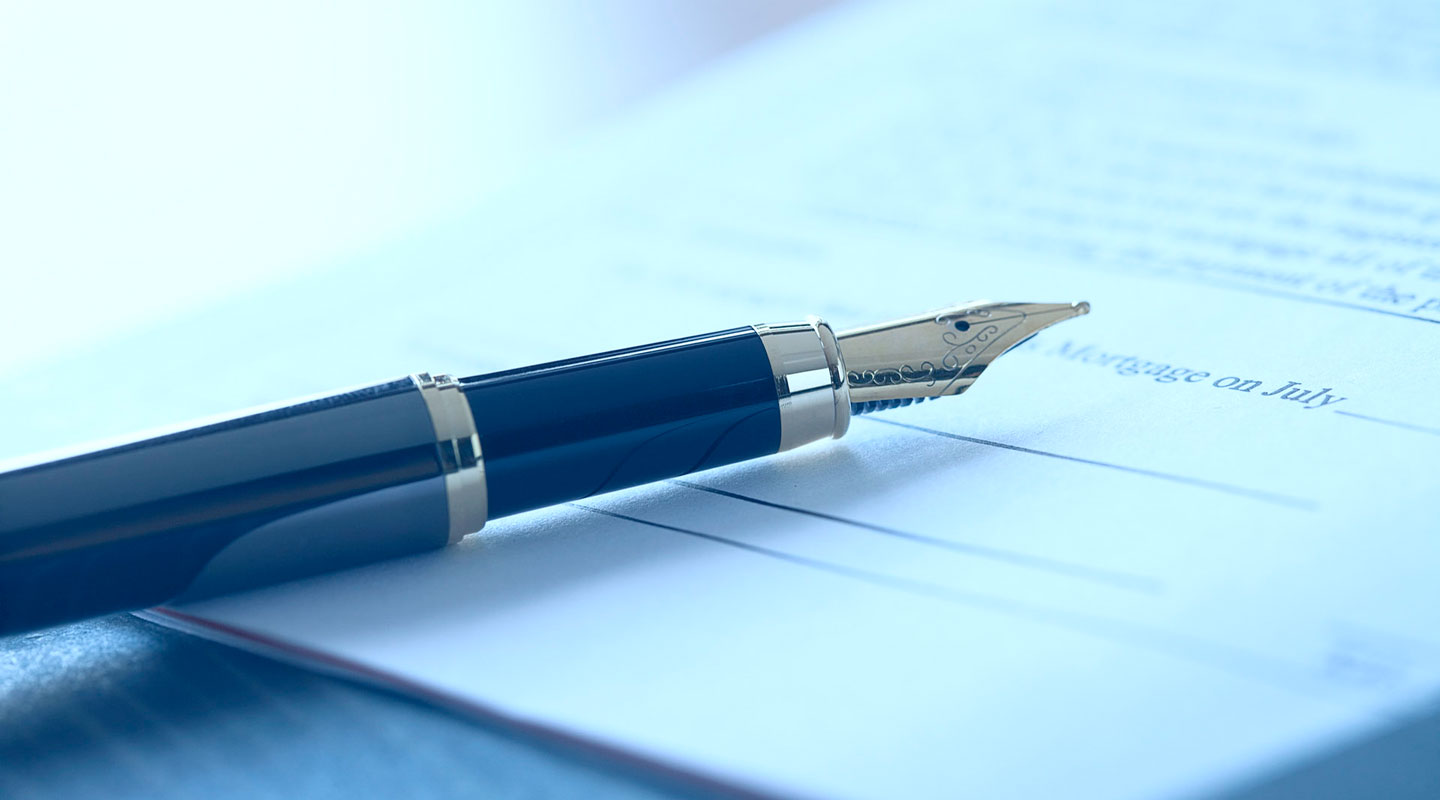
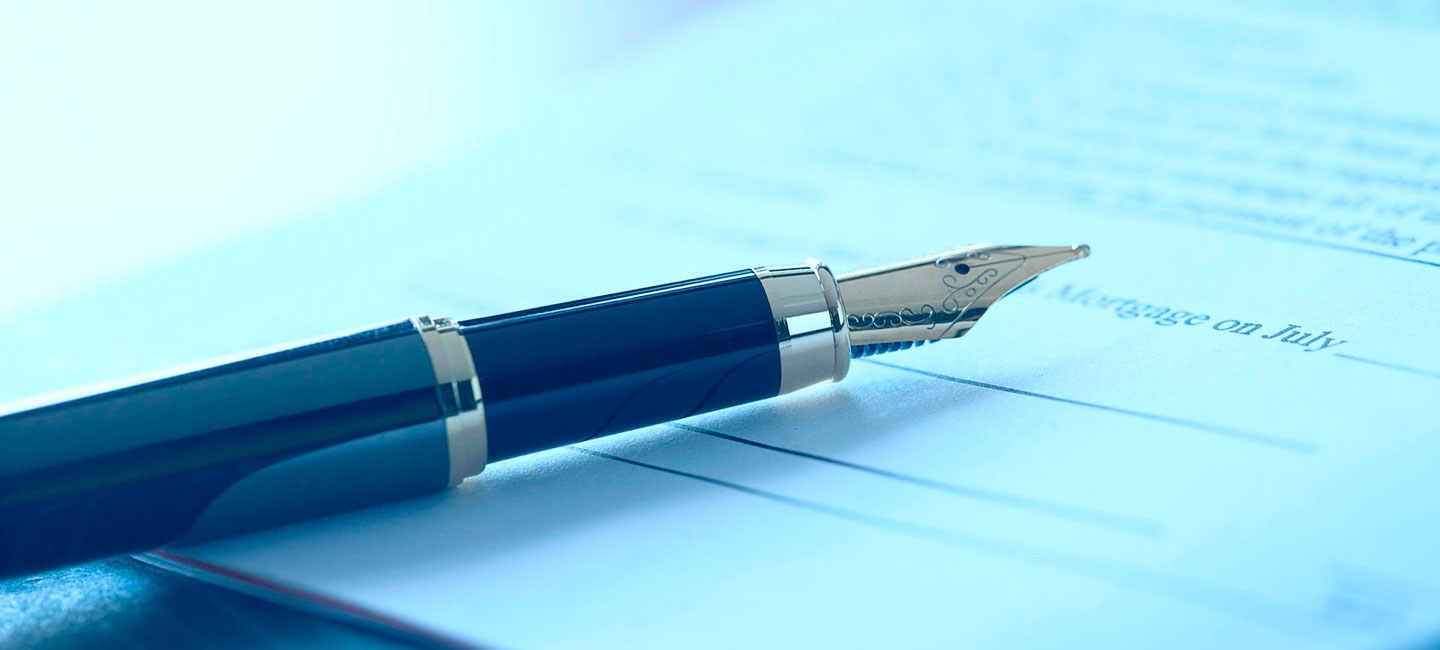
upgrade

diff --git a/max/contact.html b/max/contact.html
@@ -37,11 +37,11 @@
     </nav>
     <!--end of header-->
 
-    <div id="index-banner" class="parallax-container">
+    <div id="index-banner" class="parallax-container contact">
         <div class="section no-pad-bot">
             <div class="container">
                 <div class="row">
-                    <div class="col s12 center blue-text">
+                    <div class="col s12 center white-text">
                         <h1>Контакты</h1>
                     </div>
                 </div>
@@ -49,7 +49,7 @@
 
             </div>
         </div>
-        <div class="parallax"><img src="img/contact1.jpg" alt="Unsplashed background img 1"></div>
+        <div class="parallax contact"><img src="img/contact1.jpg" alt="Unsplashed background img 1"></div>
     </div>
 
     <div class="container">

diff --git a/max/indexstyle.css b/max/indexstyle.css
@@ -15,7 +15,10 @@ nav sub {
     background-image: url(portrait.png);
 }
 .parallax-container .parallax img {
-    bottom: 100px;
+    bottom: 80px;
+}
+.parallax-container .contact img  {
+    bottom: -43px;
 }
 .first__paralax {
     margin-bottom: 0;
